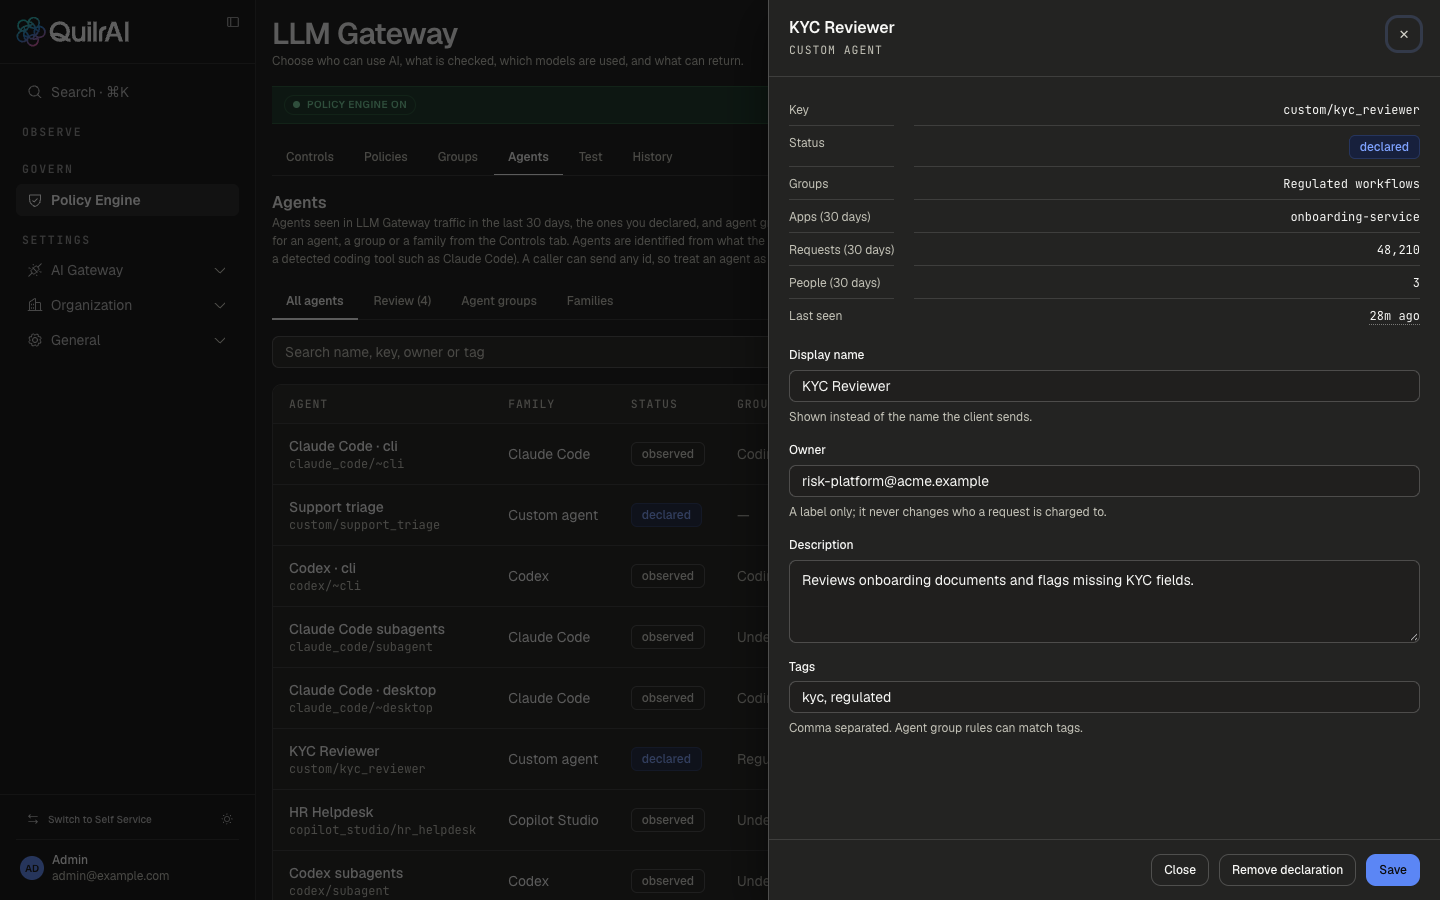
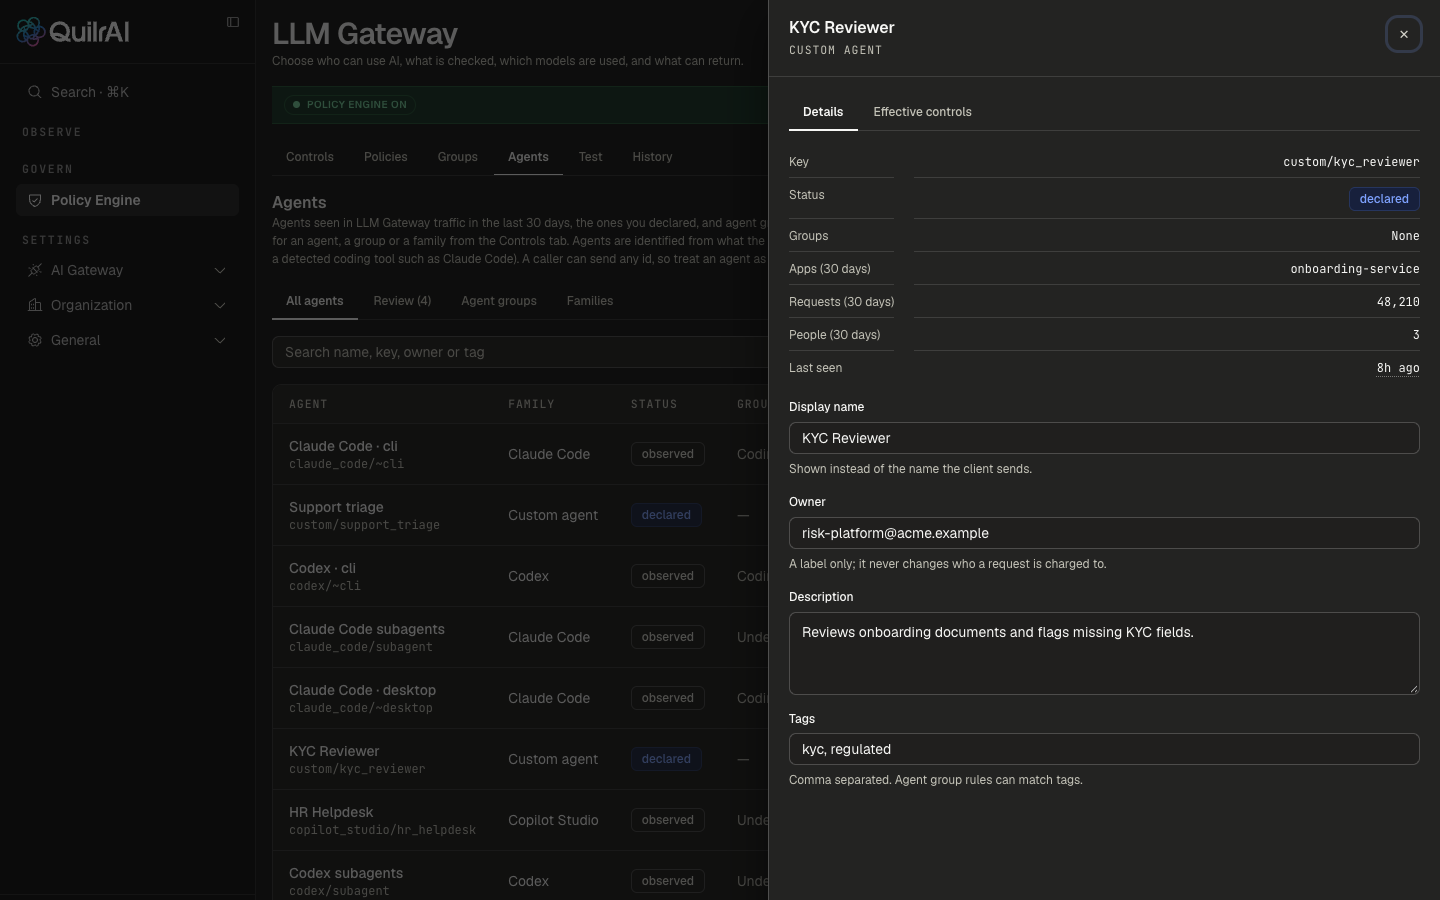
LLM Gateway docs: agent scopes, per-agent budgets and effective controls
Agent controls phase 2: Applies to > Agents / Agent groups / Agent family on
every control (priority 940/930/920, budgets stack), per-agent budgets, an
agent's allowed-models list replacing the others, agent.* fields in rules,
the Effective controls tab and the group-in-use delete warning. Agents API:
POST /agents/{key}/effective, agent scopes in controls and budgets,
409 group_in_use with ?force=true. Screenshots from the live console (QA
agents) and the synthetic mock; drawer screenshots recaptured with the new
tabs.

Claude-Session: https://claude.ai/code/session_015NGsXdRotLva84CeZFDUTF

diff --git a/docs/llm-gateway/protect/agents-and-coding-tools.md b/docs/llm-gateway/protect/agents-and-coding-tools.md
@@ -3,16 +3,16 @@ sidebar_position: 7.5
 sidebar_label: "Agents and coding tools"
 sidebar_custom_props:
   icon: Bot
-description: "See which agents and coding tools send LLM Gateway traffic, declare and group agents on the Agents tab, and block, cap or budget coding tools such as Claude Code and Codex with policy rules."
+description: "See which agents and coding tools send LLM Gateway traffic, declare and group agents, scope access, budgets, rate limits, routing and allowed models to an agent, agent group or family, and check an agent's effective controls."
 console_path: /policy/engine/llm-gateway/agents
-aliases: [agents tab, llm gateway agents, agent groups, agent registry, declare agent, coding tools, coding agent controls, block claude code, claude code budget, subagents, client app, agent families]
+aliases: [agents tab, llm gateway agents, agent groups, agent registry, declare agent, coding tools, coding agent controls, block claude code, claude code budget, subagents, client app, agent families, agent scope, per agent budget, each agent in a group, effective controls, agent model allowlist, agent.key, agent.groups]
 ---
 
 # Agents and coding tools
 
 Updated on 20 November 2026.
 
-The LLM Gateway works out which agent or coding tool sent each request. The **Agents** tab lists every agent seen in the last 30 days, lets you declare the ones you know and gather them into agent groups. Policy rules then block, cap or budget coding tools and agents.
+The LLM Gateway works out which agent or coding tool sent each request. The **Agents** tab lists every agent seen in the last 30 days, lets you declare the ones you know and gather them into agent groups. Controls and policy rules then allow or block, budget, rate limit, route and limit the models of one agent, an agent group or a whole family, and **Effective controls** shows what applies to an agent and why.
 
 <ConsolePath
   console="QuilrAI console"
@@ -21,7 +21,7 @@ The LLM Gateway works out which agent or coding tool sent each request. The **Ag
 />
 
 :::warning Agent identity is a label, not authentication
-Every agent signal is sent by the client. A caller can send any agent id, copy another agent's id or leave the headers out. Use agents to see and govern normal traffic. Use gateway keys, [identity and network trust](./identity-and-network-trust) and [gateway access](./gateway-access-and-allowed-models) when you need to know who called.
+The gateway authenticates the caller by its API key or token. The agent is then worked out from what that caller sends, so every agent signal comes from the client: a caller can send any agent id, copy another agent's id or leave the headers out. Agent controls apply to whatever agent a request names, exactly like user and app controls, so use them to govern normal traffic. Use gateway keys, [identity and network trust](./identity-and-network-trust) and [gateway access](./gateway-access-and-allowed-models) when you need to know who called.
 :::
 
 ## What counts as an agent {#what-is-an-agent}
@@ -104,9 +104,19 @@ Declaring records what an agent is and who owns it. It does not change how its r
 
 ![Agent drawer for the declared KYC Reviewer agent with key, status, groups, apps, requests, people, last seen and the display name, owner, description and tags fields](/img/llm-gateway/ui/agents-drawer-declared.png)
 
-The drawer of a family row such as **Claude Code · cli** shows the same activity but has nothing to declare, since the client named no agent.
+The drawer of a family row such as **Claude Code · cli** shows the same activity but has nothing to declare, since the client named no agent. Set controls on it with the agent family scope.
 
 ![Drawer of the Claude Code cli family row, a detected client that named no agent](/img/llm-gateway/ui/agents-drawer-family.png)
+
+### Effective controls {#effective-controls}
+
+The **Effective controls** tab of an agent's drawer shows what the gateway applies to that agent now. Optionally fill in an **App**, a **Person** and a **Requested model** to see what applies to that request, then select **Check**.
+
+![Effective controls for the KYC Reviewer agent on onboarding-service: access allowed by an agent rule at priority 940, allowed and rejected models, a route and an agent-group quota decided at priority 930, and a per-person quota at priority 600](/img/llm-gateway/ui/agents-effective-controls.png)
+
+Each row names the rule that decided it, its priority and rule number. **Agent**, **Agent group** and **Agent family** tags mark rules scoped to the agent, one of its groups or its family; **API managed** marks controls set through the Management API. The check evaluates the live policy for a sample request: access, allowed and rejected models, routing and quotas. Data protection, Guardian and content routing depend on the prompt and are not shown.
+
+![Effective controls for qa_pin_1 with requested model gpt-5.4: the only allowed model is claude-haiku-5-5, decided by an agent model-access rule at priority 940](/img/llm-gateway/ui/agents-effective-model-allowlist.png)
 
 ### Agent groups {#agent-groups}
 
@@ -151,6 +161,10 @@ Select **Create group** (**Save** when editing). To delete a group, open it and 
 
 ![Delete agent group confirmation dialog](/img/llm-gateway/ui/agents-group-delete-confirm.png)
 
+If a published rule, control or budget still names the group, the dialog lists them and asks again. **Delete anyway** deletes the group, and those rules then match no agent. Remove or change them first if they should keep applying.
+
+![Delete agent group dialog warning that the group is still used by a policy rule, a Management API route and a budget, with Delete anyway](/img/llm-gateway/ui/agents-group-delete-in-use.png)
+
 Limits: 200 groups per organization, 5,000 listed keys per group, 50 name and id patterns per group, and an agent counts in at most 64 groups.
 
 ### Families {#families}
@@ -163,26 +177,116 @@ Every family seen in the last 30 days, with its surfaces and their request count
 
 Viewing the tab needs LLM Gateway read access. Declaring agents and creating or editing groups needs update access. Removing a declaration or deleting a group needs delete access.
 
-## Control coding tools and agents {#control-coding-tools-and-agents}
+## Control agents, agent groups and families {#control-agents}
 
-Controls are policy rules. Add them in **Govern > Policy Engine > LLM Gateway > Policies > Add rule**, or write them in **Edit technical source**. Rules save as an unpublished change. **Review & publish** shows the change and its safety check, and the gateway applies a published revision within about a minute. See [Author, simulate and publish](../../console/govern/author-simulate-and-publish).
+Agents are a scope, like people, groups and apps. Every control that has an **Applies to** section can target:
 
-These fields carry agent identity:
+| Scope | Matches | Priority it gets |
+|---|---|---|
+| **Agents** | One or more agent keys, such as `custom/kyc_reviewer` or `claude_code/subagent`. | 940 |
+| **Agent groups** | Every agent in one of the groups, built-in groups included. | 930 |
+| **Agent family** (under **More targeting options**) | A whole family such as `claude_code`, or one surface such as **Claude Code · cli**. | 920 |
+
+The most specific scope wins: an agent rule beats an agent-group rule, which beats a family rule, which beats every person, group and app rule (900 and below). So you can block Claude Code for an app and still allow one approved agent, or give one agent a tighter model list than its app. An agent rule can loosen as well as tighten, exactly like a person rule. Budgets are the exception: every matching budget counts, so an agent's budget adds to the app's budget instead of replacing it.
+
+A request that names no agent never matches an agent scope.
+
+### Scope a control to agents {#scope-a-control}
+
+1. Open the control on the **Controls** tab, for example **Gateway Access**, and pick a recipe or **Add**.
+2. Under **Applies to**, select **Agents** or **Agent groups**, or open **More targeting options** and select **Agent family**. Pick values from the list: it is filled from your agents, groups and families, and you can type a key or a pattern.
+3. Choose the outcome, then **Save to draft** and **Review & publish**.
+
+The form shows the priority the scope sets, for example "Priority 930 (set from who it applies to)". Change it in the full editor if you need to.
+
+![Gateway Access rule applying to agent group QA phase 2 bots, Deny, priority 930 set from who it applies to](/img/llm-gateway/ui/agents-scope-agent-group.png)
+
+![Agent family picker listing Custom agent, Copilot Studio, OpenClaw, Claude Code, Claude Code cli, Claude Code desktop and Codex, priority 920](/img/llm-gateway/ui/agents-scope-family.png)
+
+The Controls overview counts agent scopes, for example "On for 2 apps, 3 people and 1 agent".
+
+### Budget each agent {#agent-budgets}
+
+In **Budgets & Usage Limits**, the **Who** list of a budget or rate limit has four agent choices:
+
+| Who | Counts |
+|---|---|
+| **Agent group** | One shared allowance for every agent in the groups you pick. |
+| **Each agent in a group** | A separate allowance for every agent in the groups you pick. |
+| **Each agent** | A separate allowance for every agent. |
+| **Each agent run** | A separate allowance for every run of an agent. |
+
+![Budget form with Who set to Each agent in a group, agent group QA phase 2 bots, 100 requests a day](/img/llm-gateway/ui/agents-budget-each-agent-in-group.png)
+
+The budget list shows how many agents each budget counted and which are closest to their limit:
+
+![Budget QA p2, 2 requests per agent per day for each agent in QA phase 2 bots: 2 agents counted, 1 blocked, custom/qa_p2_a at its limit; and a 1 request per minute rate limit for custom/qa_rl_1](/img/llm-gateway/ui/agents-budget-usage.png)
+
+- Requests that name no agent are not counted by a per-agent budget. To refuse them instead, set `missing_id: refuse` on the quota in the technical source or the [Budgets API](../api-reference/budgets-api).
+- A refused request gets `429` `quota_exceeded`, with the budget's label in the message, for example "Request limit 'QA p2: 2 requests per agent per day' (rolling day) reached (2 requests)".
+- Agent ids come from the client, so a caller that sends a new id on every request starts a new allowance each time. Prefer **Each agent in a group** with a group of declared agents, and keep a shared budget on the app as a ceiling.
+
+### Limit an agent's models {#agent-models}
+
+On **Allowed Models**, an allowed-models list scoped to an agent, agent group or family **replaces** the lists from its app, people and groups: the agent can use only the models in its own list. Lists at the same level (two agent groups, say) combine. Rejected models always apply.
+
+For example, with the app allowing `gpt-5.4` and `claude-haiku-5-5` and an agent rule allowing only `claude-haiku-5-5`, the agent gets `403` `policy_model_not_allowed` for `gpt-5.4`, while the app's other traffic keeps both models. Use [Effective controls](#effective-controls) with a **Requested model** to check.
+
+### Agent fields in rules {#agent-fields}
+
+In **Policies > Add rule**, the field list has an **Agent** section. Values are filled from your traffic and registry.
+
+![Field picker with the Agent section: Agent is declared, Agent family, Agent groups, Agent ID, Agent and Agent name](/img/llm-gateway/ui/policy-field-picker-agent.png)
 
 | Field | Visual builder | Holds |
 |---|---|---|
+| `agent.key` | **Agent** | The agent key, such as `custom/kyc_reviewer` or `claude_code/~cli`. |
+| `agent.groups` | **Agent groups** | Group ids the agent is in now, built-in groups included. |
+| `agent.family` | **Agent family** | `claude_code`, `codex`, `custom` and so on. |
+| `agent.surface` | **Agent surface** | `cli`, `desktop`, `subagent` and so on. |
+| `agent.id`, `agent.name`, `agent.type` | **Agent ID**, **Agent name**, **Agent type** | What the client sent. |
+| `agent.run_id` | **Agent run ID** | The run id. |
+| `agent.declared`, `agent.tags` | **Agent is declared**, **Agent tags** | From your declaration. |
+| `agent.presence` | **Agent presence** | `agent`, `family_only` (a detected tool that named no agent) or `none`. |
 | `request.client.name` | **Client app** | The detected coding tool: `claude_code`, `codex`, `cline`, `gemini_cli` and so on. |
-| `request.metadata.agent_id` | Code view | The declared agent id, or a Claude Code subagent id. |
-| `request.metadata.agent_run_id` | Code view | The agent run id. |
-| `request.metadata.conversation_id` | Code view | The conversation id. A Claude Code session id counts. |
 
-![Client app value list in the visual rule builder: aider, claude_code, claude_desktop, cline, codex, continue, crush, gemini_cli, gemini_code_assist](/img/llm-gateway/ui/policy-client-app-values.png)
+Family, surface, groups and tags compare case-insensitively.
+
+![Agent value picker suggesting custom/qa_block_1 and custom/qa_block_2 for the search qa_block](/img/llm-gateway/ui/policy-agent-value-autofill.png)
+
+To block one agent: **Add rule**, condition **agent** **is any of** the agent key, outcome **Request access** → **deny**.
+
+![New rule: agent is any of custom/qa_block_1, then Request access deny](/img/llm-gateway/ui/policy-rule-deny-agent.png)
+
+The same rules in the technical source:
+
+```text
+policy block_one_agent priority 940 {
+  request where agent.key in ["custom/kyc_reviewer"] then { access.action = deny; }
+}
+
+policy regulated_agents_models priority 930 {
+  request where arrayAny(agent.groups, g => g in ["regulated-workflows"]) then {
+    routing.model_allowlist = ["claude-sonnet-4-5", "gpt-4.1-mini"];
+  }
+}
+
+policy per_agent_daily priority 930 {
+  request where arrayAny(agent.groups, g => g in ["regulated-workflows"]) then {
+    limits.quotas = [{ id: "regulated_daily", metric: requests, limit: 1000, group_by: ["agent.key"], window: { kind: rolling, unit: day } }];
+  }
+}
+```
+
+`routing.model_allowlist` is the replacing list described above; `routing.allowed_models` adds to the other lists. Quotas can group by `agent.key`, `agent.family` or `agent.run_id`.
 
 :::note Client app is not a security boundary
 `request.client.name` comes from the headers the tool sends. It controls normal tool traffic, but a caller that strips those headers is not matched: the same key without Claude Code headers is allowed.
 :::
 
-In the visual builder, **Client app** conditions and **Request access** outcomes are point and click. Budget and request amounts (**Named usage quotas**) are edited in the code view.
+## Coding tool recipes {#control-coding-tools-and-agents}
+
+The recipes below match the coding tool with **Client app**. `agent.family` works the same way and also covers subagents and family scopes.
 
 ### Block Claude Code for an app {#block-claude-code-for-an-app}
 
@@ -253,16 +357,16 @@ Use the same `limits.quotas` shape with a different condition or `group_by`:
 | Cap | Condition | Quota |
 |---|---|---|
 | $20 per person per Claude Code session | `request.client.name == "claude_code"` | `metric: spend_usd, limit: 20, group_by: ["user.email", "request.metadata.conversation_id"], window: { kind: lifetime }` |
-| Claude Code subagents only | `request.client.name == "claude_code" and request.metadata.agent_id != null` | Any metric and window |
-| One declared agent | `request.metadata.agent_id == "agent_7xC"` | `group_by: ["request.metadata.agent_id"]` |
+| Claude Code subagents only | `agent.key == "claude_code/subagent"` | Any metric and window |
+| Each agent in a group | `arrayAny(agent.groups, g => g in ["regulated-workflows"])` | `group_by: ["agent.key"]` |
 
-The **Budgets & Usage Limits** control also has **Each conversation**, **Each agent** and **Each agent run** budgets. See [Cap a conversation or an agent](../cost-and-traffic/budget-recipes#conversation-agent-caps).
-
-Policy conditions name a coding tool or an agent id. They cannot name an agent group or an agent key yet.
+See also [Cap a conversation or an agent](../cost-and-traffic/budget-recipes#conversation-agent-caps).
 
 ## Manage agents with the API {#api}
 
-The [Agents API](../api-reference/agents-api) lists agents, declares them in bulk, and creates and edits agent groups, with the `agents:write` management scope.
+The [Agents API](../api-reference/agents-api) lists agents, declares them in bulk, creates and edits agent groups, and shows an agent's effective controls, with the `agents:write` management scope.
+
+Every Management API control scope (`/controls/*`) and every budget's `applies_to` also take `agents`, `agent_groups` and `agent_families` lists, with the same precedence as the console. See [Agent scopes](../api-reference/agents-api#agent-scopes).
 
 ## Related {#related}
 

diff --git a/docs/llm-gateway/release-notes/ux-changelog.md b/docs/llm-gateway/release-notes/ux-changelog.md
@@ -31,7 +31,13 @@ Recent interface improvements and quality-of-life changes.
 - **Agent groups**: built-in **All agents**, **Undeclared agents** and **Coding tools**, plus your own groups from listed keys, exclusions and match rules (families, names, ids, apps, app tags, agent tags, declared, people in 30 days)
 - **Families** shows each family's surfaces and request counts
 - Policy rules can block, cap or budget a coding tool with the **Client app** condition (`request.client.name`), and target agents, runs and sessions with `request.metadata.agent_id`, `agent_run_id` and `conversation_id`
-- Management API: `/agents`, `/agents/_declare`, `/agent-groups`, `/agent-groups/{group_id}/members` and `/agent-families`, with the new `agents:write` scope (**Manage agents**)
+- **Agent scopes on controls**: **Applies to** offers **Agents** and **Agent groups**, and **Agent family** under **More targeting options**, on access, budgets and rate limits, routing and allowed models. The most specific scope wins (agent 940, agent group 930, family 920, above people and apps); budgets all count
+- **Per-agent budgets**: **Who** offers **Agent group**, **Each agent in a group**, **Each agent** and **Each agent run**; the budget list shows agents counted and the ones closest to their limit
+- An agent's **Allowed Models** list replaces its app's and people's lists
+- Policy rules have an **Agent** field section (`agent.key`, `agent.groups`, `agent.family`, `agent.surface` and more) with values filled from your agents
+- **Effective controls** tab in the agent drawer: access, models, routing and quotas for an agent, with the rule that decided each
+- Deleting an agent group that rules still use warns and lists them before **Delete anyway**
+- Management API: `/agents`, `/agents/_declare`, `/agent-groups`, `/agent-groups/{group_id}/members` and `/agent-families`, with the new `agents:write` scope (**Manage agents**); `POST /agents/{key}/effective`; `agents`, `agent_groups` and `agent_families` in every control scope and budget `applies_to`; `409 group_in_use` with `?force=true`
 - Details: [Agents and coding tools](../protect/agents-and-coding-tools) and [Agents API](../api-reference/agents-api)
 
 ## Self-service redesign (2026-11-18)
